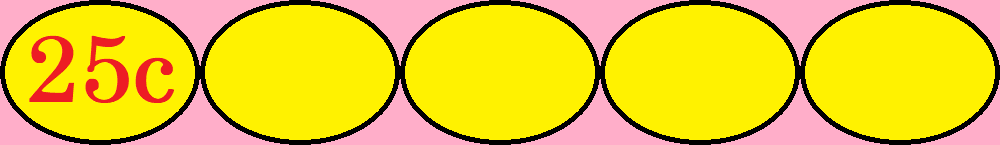
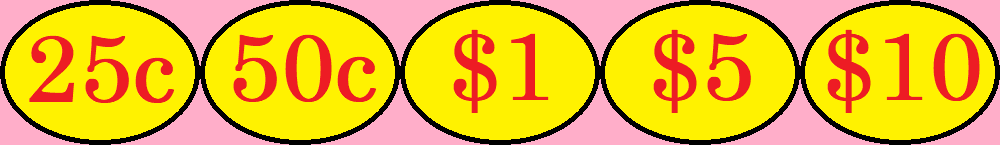
Selected denom now working.  Updated graphics

diff --git a/sdlbuttons.c b/sdlbuttons.c
@@ -17,35 +17,33 @@ int loadbuttons(struct gameButtonImageData *gameButtonImageData)
 	float denomButtonResWidthCorrected = 0.0;
 	float denomButtonResHeightCorrected = 0.0;
 	
-	SDL_Surface* denomButtonSelectedSurface[5];
-	SDL_Surface* denomButtonNotSelectedSurface[5];
+	SDL_Surface* denomButtonSelectedSurface;
+	SDL_Surface* denomButtonNotSelectedSurface;
 
 	// null the denom buttons
-	for (intCounter = 0; intCounter < 5; intCounter++)
-	{
-		denomButtonSelectedSurface[intCounter] = NULL;
-		denomButtonNotSelectedSurface[intCounter] = NULL;
-		gameButtonImageData->denomButtonSelectedTexture[intCounter] = NULL;
-		gameButtonImageData->denomButtonNotSelectedTexture[intCounter] = NULL;
-	}
+	denomButtonSelectedSurface = NULL;
+	denomButtonNotSelectedSurface = NULL;
+	gameButtonImageData->denomButtonSelectedTexture = NULL;
+	gameButtonImageData->denomButtonNotSelectedTexture = NULL;
+	
 
 	// load the image into the surfaces
-	denomButtonSelectedSurface[0] = IMG_Load("images/denomselected.png");
+	denomButtonSelectedSurface = IMG_Load("images/denomselected.png");
 
 	// check if denom buttons loaded properly
-	if (denomButtonSelectedSurface[0] == NULL)
+	if (denomButtonSelectedSurface == NULL)
 	{
 		printf("SDL could not load images: %s\n", IMG_GetError());
 		return 1;
 	}
 
 	// set color key
-	SDL_SetColorKey(denomButtonSelectedSurface[0], SDL_TRUE, SDL_MapRGB(denomButtonSelectedSurface[0]->format, 255, 174, 201));
+	SDL_SetColorKey(denomButtonSelectedSurface, SDL_TRUE, SDL_MapRGB(denomButtonSelectedSurface->format, 255, 174, 201));
 
 	// load textures from surface
-	gameButtonImageData->denomButtonSelectedTexture[0] = SDL_CreateTextureFromSurface(mainWindowRenderer, denomButtonSelectedSurface[0]);
+	gameButtonImageData->denomButtonSelectedTexture = SDL_CreateTextureFromSurface(mainWindowRenderer, denomButtonSelectedSurface);
 
-	if(gameButtonImageData->denomButtonSelectedTexture[0] == NULL)
+	if(gameButtonImageData->denomButtonSelectedTexture == NULL)
 	{
 		printf("SDL could not load denom button textures: %s\n", SDL_GetError());
 		return 1;
@@ -55,11 +53,15 @@ int loadbuttons(struct gameButtonImageData *gameButtonImageData)
 	denomButtonResWidthCorrected = ((intWindowWidth / 1920.0) * DENOM_BUTTON_WIDTH);
 	denomButtonResHeightCorrected = ((intWindowHeight / 1280.0) * DENOM_BUTTON_HEIGHT);
 	
-	gameButtonImageData->denomButtonSource[0].x = 0;
-	gameButtonImageData->denomButtonSource[0].y = 0;
-	gameButtonImageData->denomButtonSource[0].w = DENOM_BUTTON_WIDTH;
-	gameButtonImageData->denomButtonSource[0].h = DENOM_BUTTON_HEIGHT;
-	
+	// Assign coordinates to source rect
+	for (intCounter = 0; intCounter < 5; intCounter++)
+	{
+		gameButtonImageData->denomButtonSource[intCounter].x = DENOM_BUTTON_WIDTH * intCounter;
+		gameButtonImageData->denomButtonSource[intCounter].y = 0;
+		gameButtonImageData->denomButtonSource[intCounter].w = DENOM_BUTTON_WIDTH;
+		gameButtonImageData->denomButtonSource[intCounter].h = DENOM_BUTTON_HEIGHT;
+	}
+
 	gameButtonImageData->denomButtonDest.x = (intWindowWidth /2) - (denomButtonResWidthCorrected / 2);
 	gameButtonImageData->denomButtonDest.y = (intWindowHeight / 1.15);
 	gameButtonImageData->denomButtonDest.h = denomButtonResHeightCorrected;
@@ -67,12 +69,17 @@ int loadbuttons(struct gameButtonImageData *gameButtonImageData)
 
 
 	// free the denom button surfaces
-	SDL_FreeSurface(denomButtonSelectedSurface[0]);
-	denomButtonSelectedSurface[0] = NULL;
+	SDL_FreeSurface(denomButtonSelectedSurface);
+	denomButtonSelectedSurface = NULL;
+
+	return 0;
 }
 
 void closebuttons(struct gameButtonImageData *gameButtonImageData)
 {
-	SDL_DestroyTexture(gameButtonImageData->denomButtonSelectedTexture[0]);
-	gameButtonImageData->denomButtonSelectedTexture[0] = NULL;
+	SDL_DestroyTexture(gameButtonImageData->denomButtonSelectedTexture);
+	gameButtonImageData->denomButtonSelectedTexture = NULL;
+
+	SDL_DestroyTexture(gameButtonImageData->denomButtonNotSelectedTexture);
+	gameButtonImageData->denomButtonNotSelectedTexture = NULL;
 }

diff --git a/jobrender.c b/jobrender.c
@@ -8,7 +8,7 @@
 extern SDL_Renderer* mainWindowRenderer;
 
 // JacksOrBetterRender:  Renders the whole graphical selection of Jacks Or Better to the renderer
-void JacksOrBetterRender(struct card *hand, struct fonts *gameFonts, struct fiveCardDeckImageData *deckImageData, struct gameButtonImageData *gameButtonImageData, bool handState, float floatGameCash, int intBetLevel)
+void JacksOrBetterRender(struct card *hand, struct fonts *gameFonts, struct fiveCardDeckImageData *deckImageData, struct gameButtonImageData *gameButtonImageData, bool handState, float floatGameCash, int intBetLevel, enum denomtype denom)
 {
 
 	int intCounter = 0;
@@ -49,5 +49,5 @@ void JacksOrBetterRender(struct card *hand, struct fonts *gameFonts, struct five
 	if (hand[4].held == YES)
 		SDL_RenderCopy(mainWindowRenderer, gameFonts->heldTexture, NULL, &gameFonts->heldDest[4]);
 
-	SDL_RenderCopy(mainWindowRenderer, gameButtonImageData->denomButtonSelectedTexture[0] , &gameButtonImageData->denomButtonSource[0], &gameButtonImageData->denomButtonDest);
+	SDL_RenderCopy(mainWindowRenderer, gameButtonImageData->denomButtonSelectedTexture , &gameButtonImageData->denomButtonSource[denom], &gameButtonImageData->denomButtonDest);
 }

diff --git a/jobrender.h b/jobrender.h
@@ -1,4 +1,4 @@
 // Video Poker:  Jacks or Better render header
 
 // JacksOrBetterRender:  Function containing all the renders for a jacks or better game.
-void JacksOrBetterRender(struct card *, struct fonts *, struct fiveCardDeckImageData *, struct gameButtonImageData *, bool, float, int);
+void JacksOrBetterRender(struct card *, struct fonts *, struct fiveCardDeckImageData *, struct gameButtonImageData *, bool, float, int, enum denomtype);

diff --git a/vpoker.c b/vpoker.c
@@ -217,7 +217,7 @@ int main(int argc, char *argv[])
 					switch (game)
 					{
 						case JACKS_OR_BETTER:
-							JacksOrBetterRender(hand, &gameFonts, &deckImageData, &gameButtonImageData, handState, floatGameCash, intBetLevel);
+							JacksOrBetterRender(hand, &gameFonts, &deckImageData, &gameButtonImageData, handState, floatGameCash, intBetLevel, denom);
 							break;
 						case DUCES_WILD:
 							break;

diff --git a/sdlbuttons.h b/sdlbuttons.h
@@ -8,8 +8,8 @@ struct buttonCoordinates {
 };
 
 struct gameButtonImageData {
-	SDL_Texture* denomButtonSelectedTexture[5];
-	SDL_Texture* denomButtonNotSelectedTexture[5];
+	SDL_Texture* denomButtonSelectedTexture;
+	SDL_Texture* denomButtonNotSelectedTexture;
 	SDL_Rect denomButtonSource[5];
 	SDL_Rect denomButtonDest;
 };
